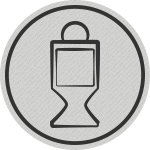
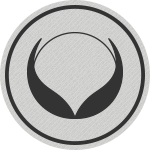
Update
Added cursor pointers.
Changed logo, and charity logo.
Changed machine pic.
Adjusted comment form to accom error messages.

Changed region(s): [[0.16, 0.1333, 0.8267, 0.8533]]

diff --git a/css/styles.css b/css/styles.css
@@ -97,6 +97,9 @@ a.selected {
 	color: #75031d;
 }
 
+#nav a.selected {
+	color: #75031d;
+}
 
 p.style1 {
 	font-family: 'SourceSansProSemibold';
@@ -107,6 +110,7 @@ p.style1 {
 
 button {	
 	float: right;
+	cursor: pointer;
 	background: url(../img/textures/button.png);
 	text-align: center;
 	border-radius: 5px;
@@ -384,6 +388,7 @@ header {
 
 
 .marker {
+	cursor: pointer;
 	background: url(../img/marker.png);
 	background-repeat: no-repeat;
 	position: relative;
@@ -459,6 +464,7 @@ header {
 }
 
 .close {
+	cursor: pointer;
 	z-index: 22;
 	float: right;
 	position: relative;
@@ -589,6 +595,7 @@ header {
 }
 
 #arrow {
+	cursor: pointer;
 	background: url(../img/arrow_hover.png) no-repeat center 100%;
 	width: 82px;
 	height: 82px;
@@ -605,7 +612,8 @@ header {
 	background-repeat: repeat-x, repeat;
 	background-position: bottom;
 	width: 1000px;
-	padding-bottom: 35px; 
+	height: 258px;
+	padding-bottom: 10px; 
 	z-index: 8;
 	display: none;
 }
@@ -624,6 +632,7 @@ header {
 
 
 #contact-area input.submit-button {
+	cursor: pointer;
 	background: url(../img/textures/button.png);
 	font-family: 'LondrinaSolidRegular';
 	border-radius: 5px;
@@ -636,7 +645,7 @@ header {
 	float: right;
 }
 
-#contact_area finput.submit-button:hover {
+#contact_area input.submit-button:hover {
 	background: url(../img/textures/button_hover.png);
 }
 

diff --git a/index.html b/index.html
@@ -233,7 +233,7 @@
 									</div>
 								</article>
 								<article class="threecol">
-									<div class="icon_box"><img class="icon" src="img/charity_icon.png" alt="charity icon"><h2>Charity</h2></div>
+									<div class="icon_box"><img class="icon" src="img/charity_icon.png" alt="charity icon"><h2>Our Ethos</h2></div>
 									<div class="about">
 										<p>We feel strongly about building up relationships with relevant charities and any initiatives that can help deliver our healthy living message. So, we support the government's Change4Life campaign and actively seek to associate ourselves with charitable brands.</p>
 										<p>As a result all the water we stock comes from Thirsty Planet whose partnership with Pumpaid raises money towards water projects in the most disadvantaged parts of Africa.</p>

diff --git a/js/marker.js b/js/marker.js
@@ -34,7 +34,7 @@ $(document).ready(function(){
 
 $(document).ready(function(){
    $(".icon_box").mouseenter(function(){
-   $(this).animate({top:"-325px"},"30");
+   $(this).animate({top:"-340px"},"30");
  }); 
 
    $(".icon_box").mouseleave(function(){
